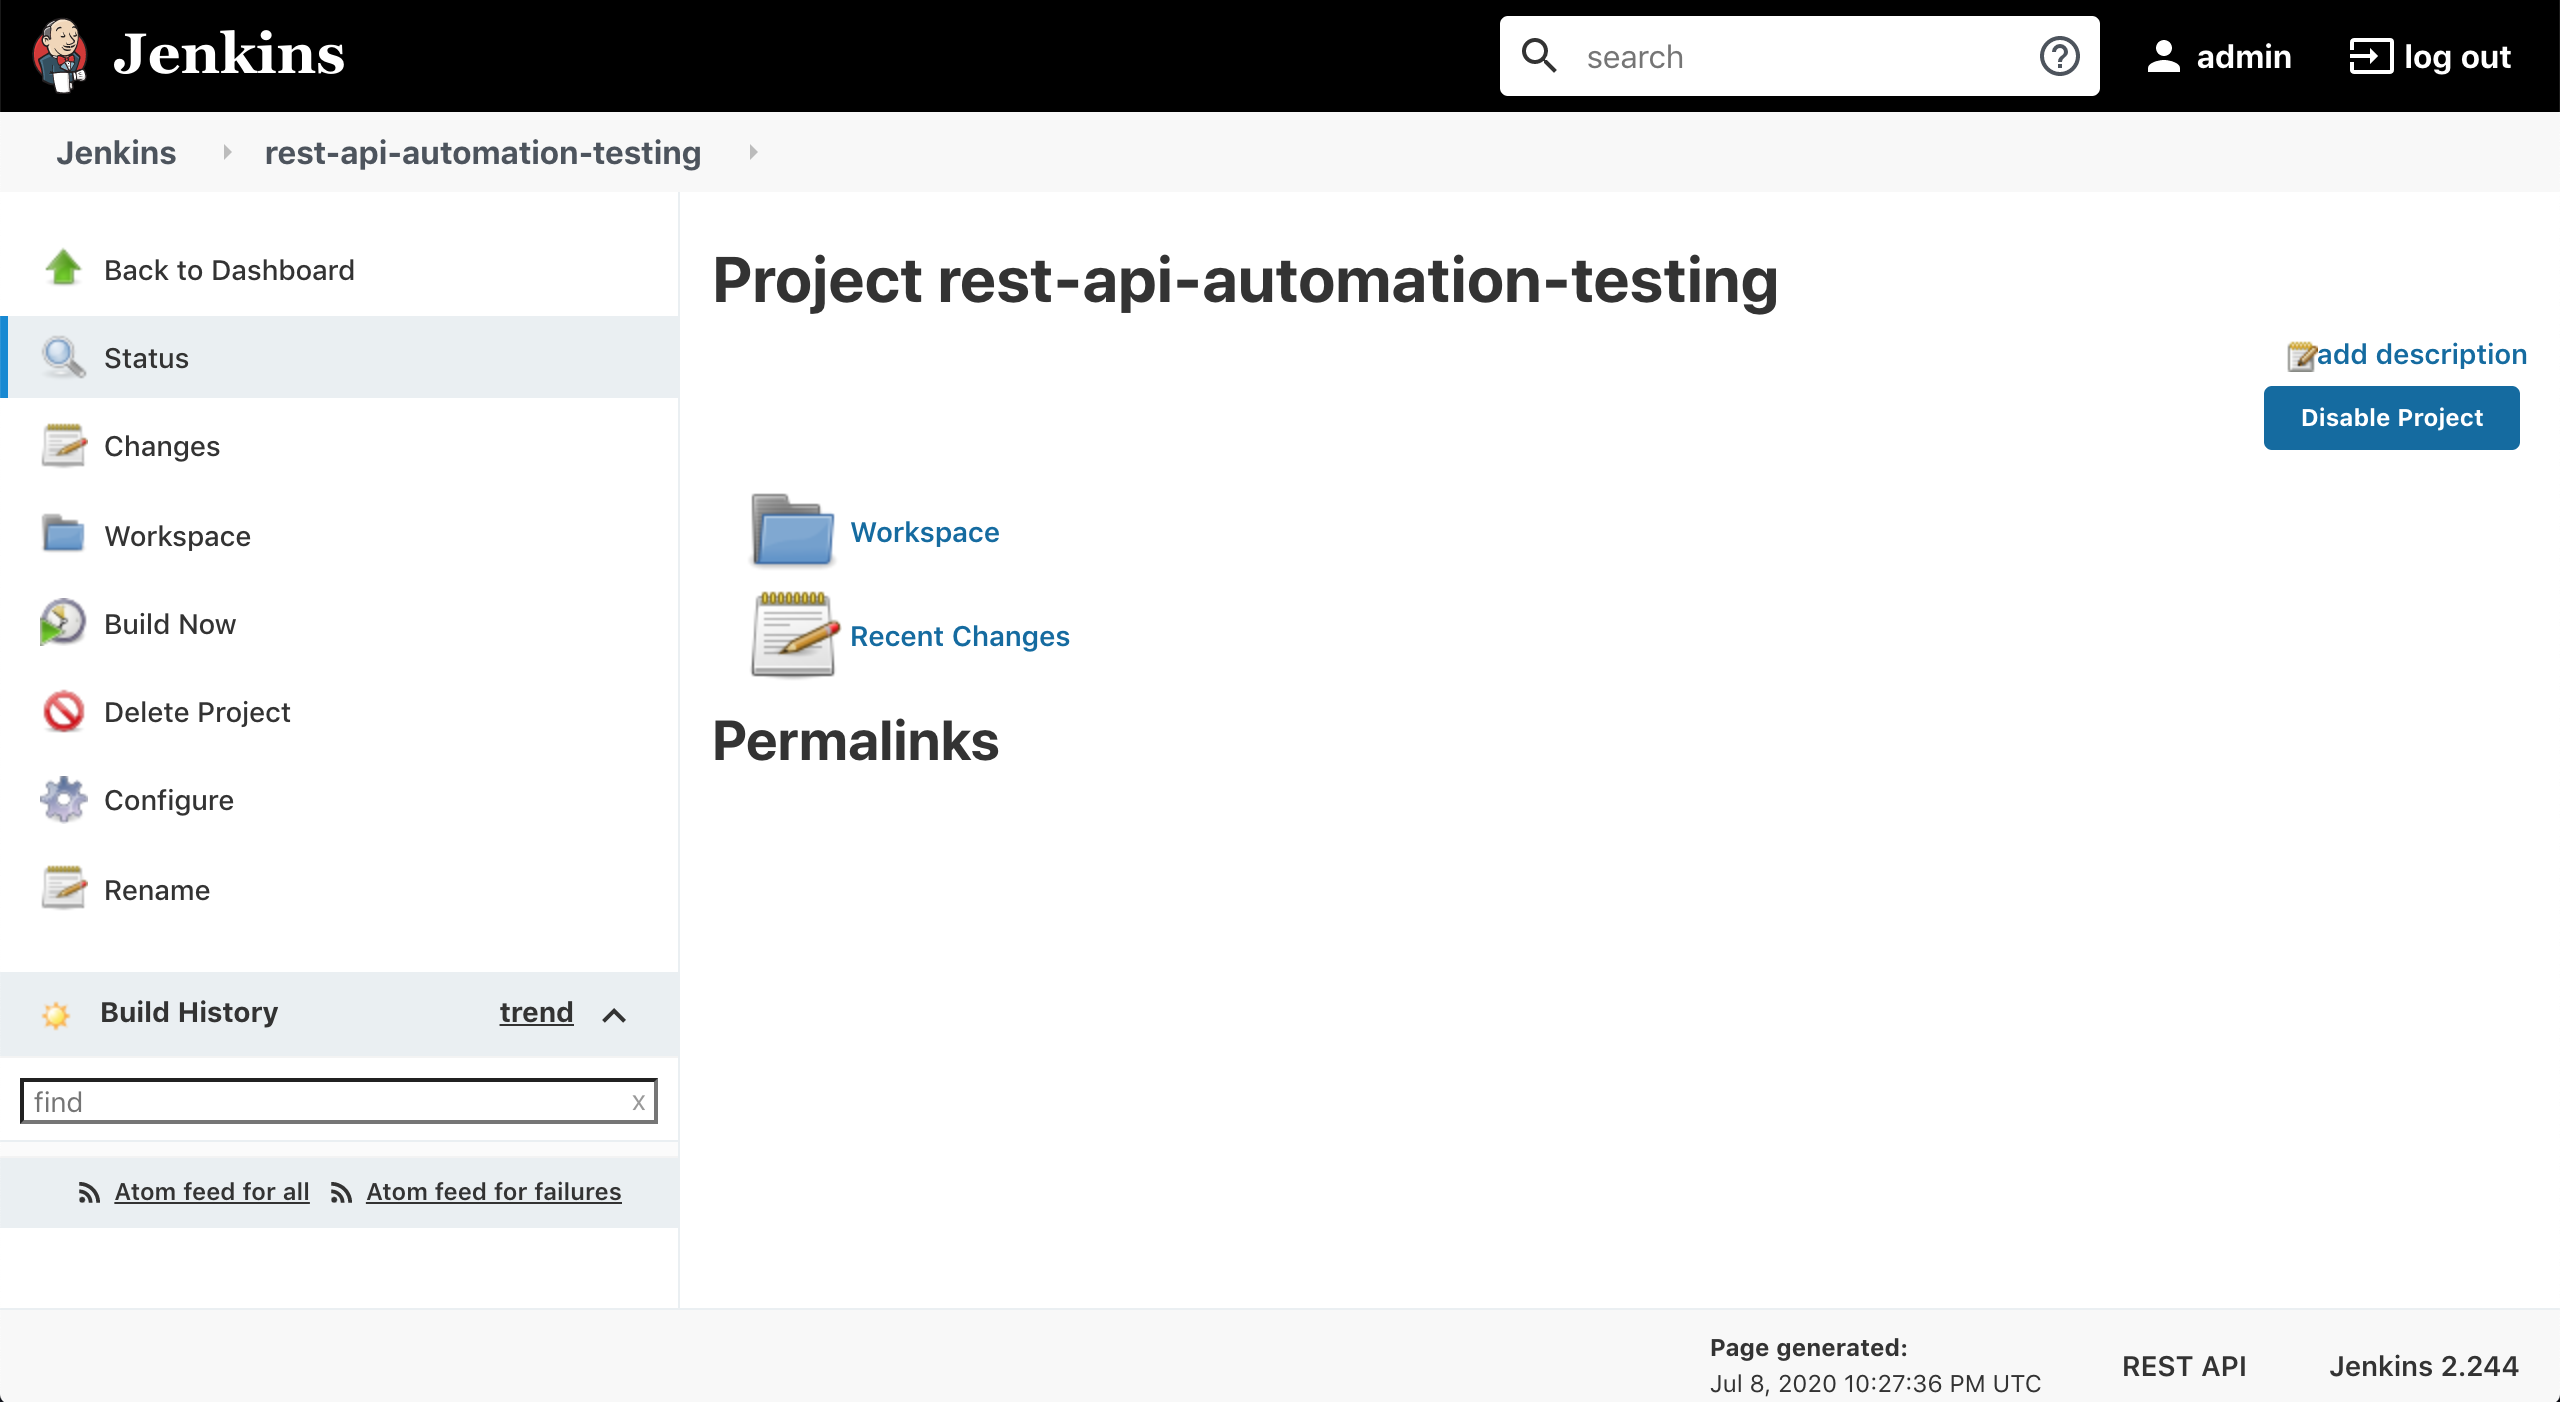
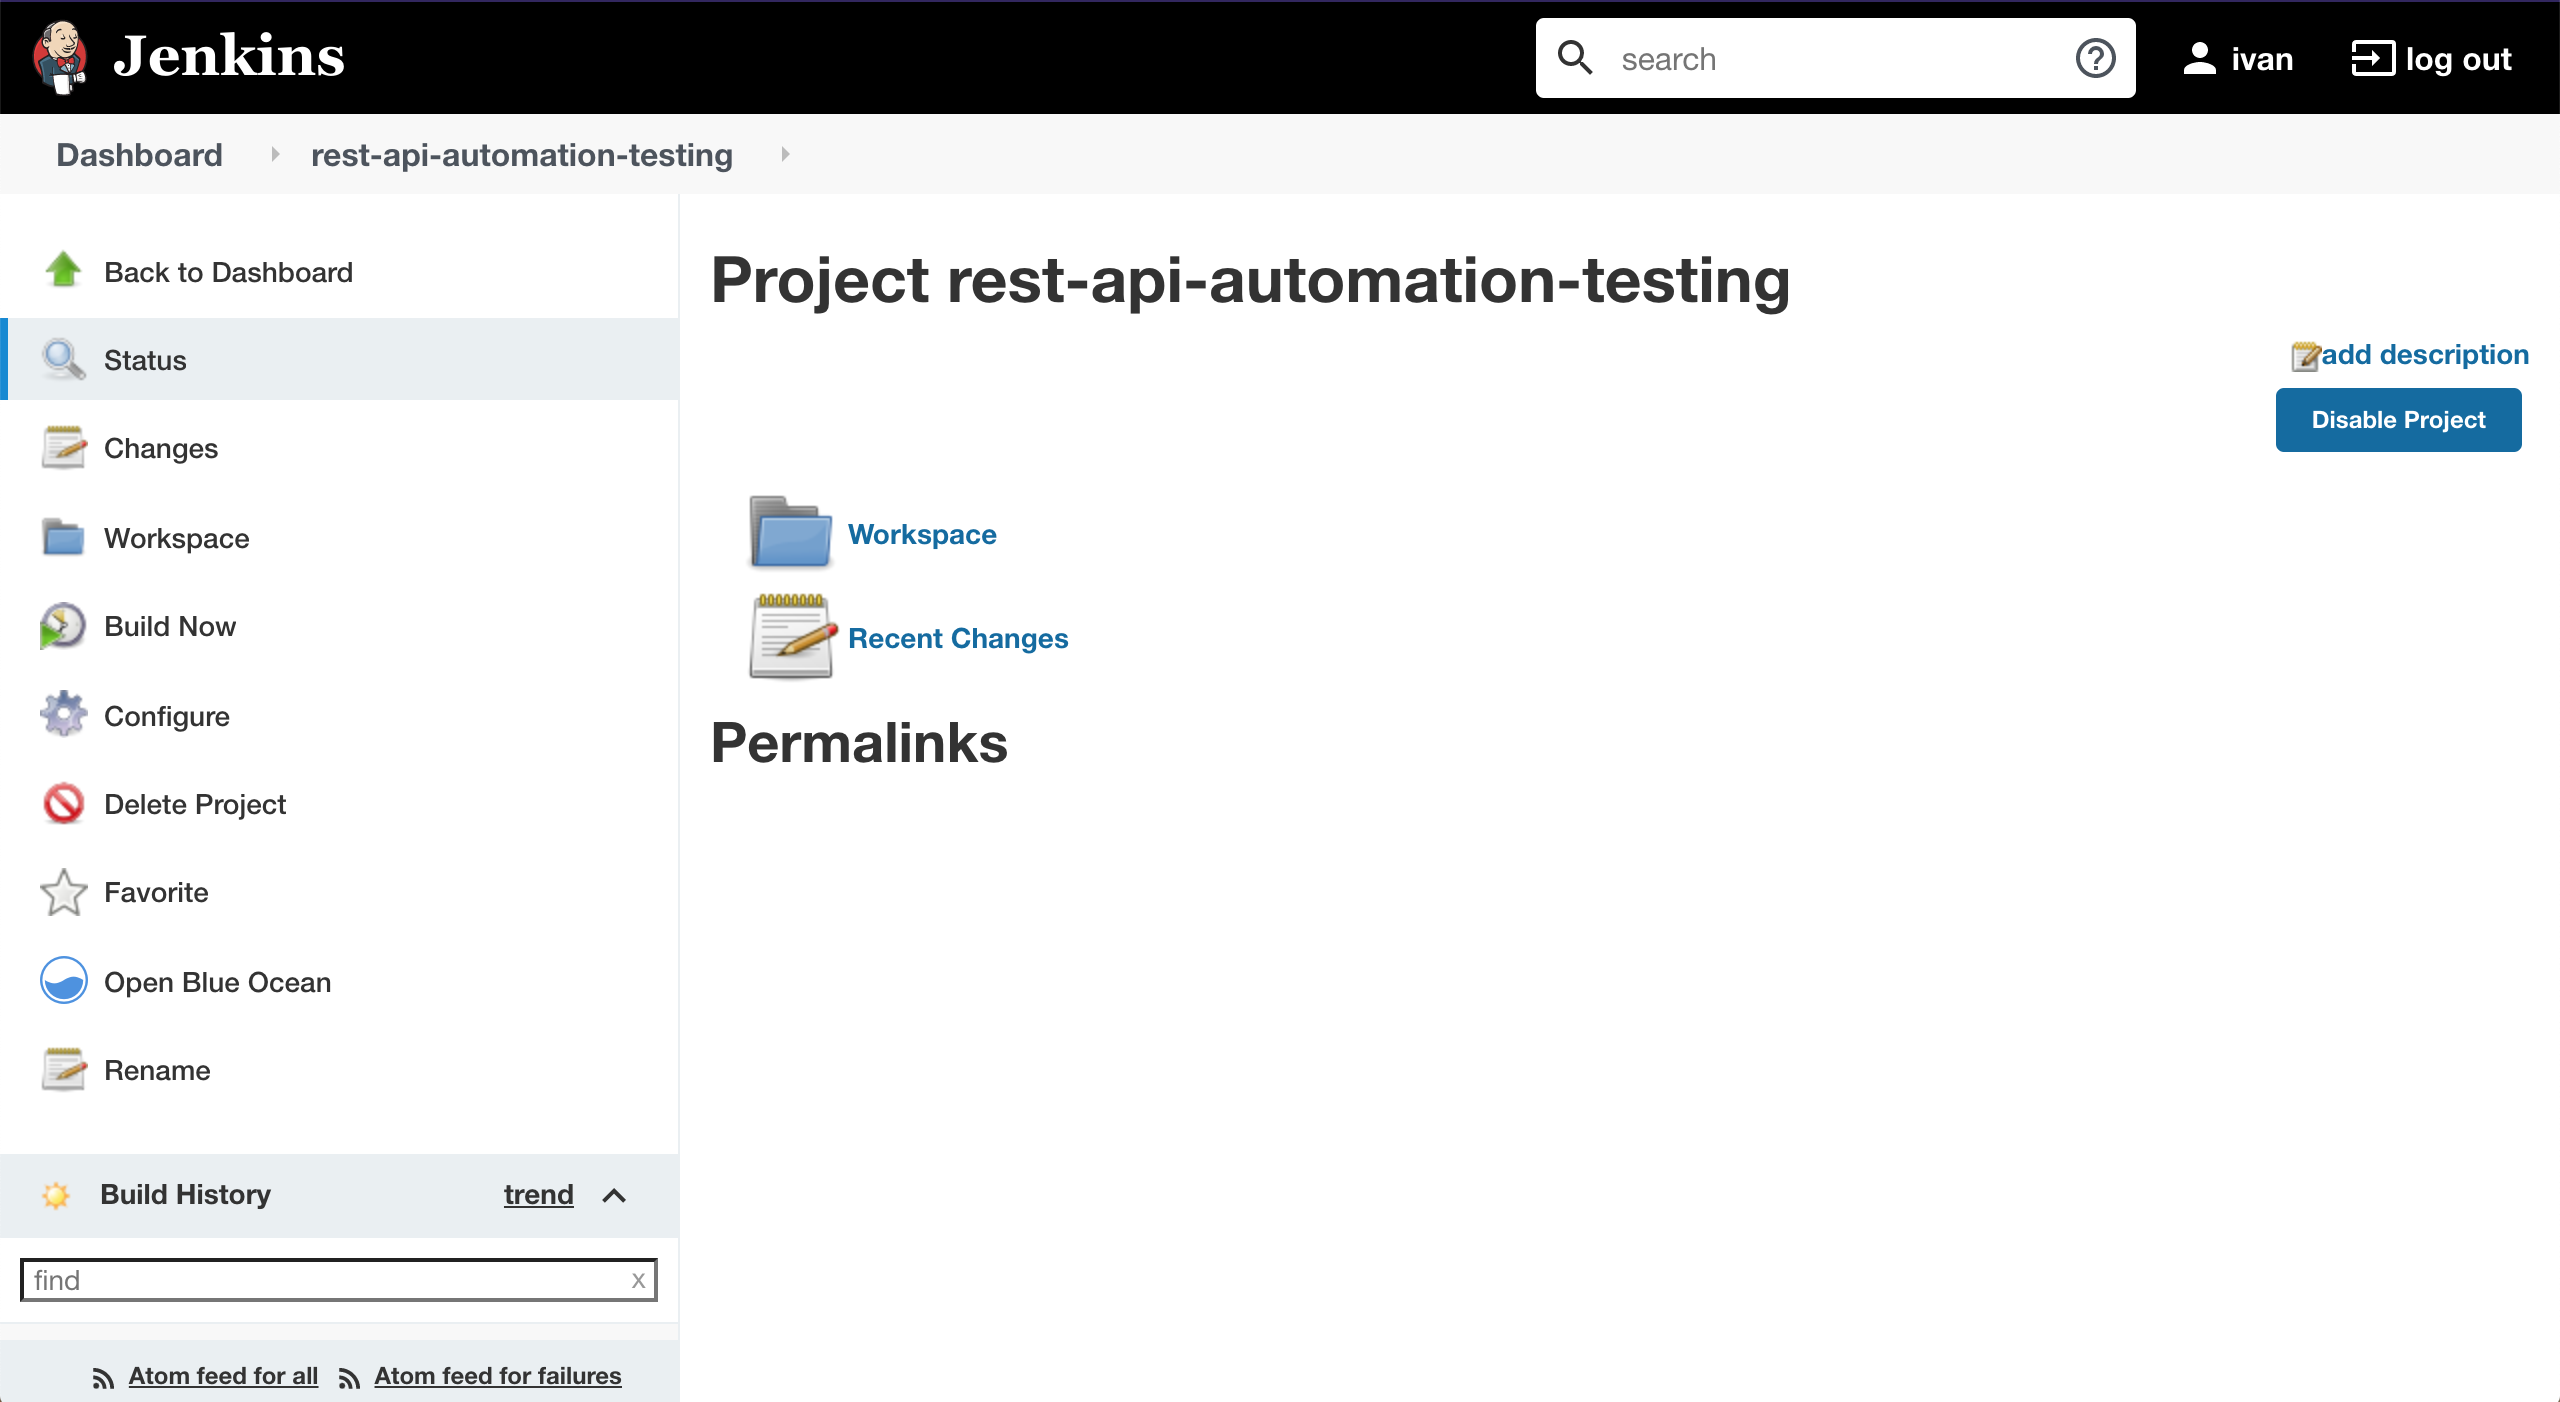
project update - add jenkins-docker that uses docker:dind to docker-compose.yml file; - update jenkins in docker-compose.yml file following the config described at https://www.jenkins.io/doc/book/installing/docker/ - update jenkins/jenkins Docker image to 2.277.4-lts-jdk11; - update postman/newman D

diff --git a/README.md b/README.md
@@ -10,45 +10,36 @@ The goal of this project is to implement an **Automation Testing** for a REST AP
 
 ## Test Postman Collection in Host Machine
 
-- Open a terminal and make sure you are inside `postman-newman-jenkins` root folder
+- Open a terminal window and make sure you are inside `postman-newman-jenkins` root folder
 
 - Execute the following command. I will run `Newman` docker container using the `Postman` collection present in `postman` folder.
   ```
-  docker run -t --rm --name newman \
-    -v $PWD/postman:/etc/newman \
-    postman/newman:5.1.1-alpine run ReqRes.postman_collection.json -g ReqRes.postman_globals.json
+  docker run -t --rm --name newman -v $PWD/postman:/etc/newman \
+    postman/newman:5.2.3-alpine run ReqRes.postman_collection.json -g ReqRes.postman_globals.json
   ```
   
-- In `postman` folder, there are two JSON files that configure some test cases and environment variables to run them. You can edit them by using `Postman`. 
+- In `postman` folder, there are two JSON files that configure some test cases and environment variables used to run them. You can edit them by using `Postman`. 
 
-## Start environment
+## Running Jenkins using Docker-In-Docker
 
-- In a terminal, make sure you are inside `postman-newman-jenkins` root folder
-
-- Export to `DOCKER_PATH` environment variable the docker path in host machine
-  ```
-  export DOCKER_PATH=$(which docker)
-  ```
+- In a terminal window, make sure you are inside `postman-newman-jenkins` root folder
 
 - Run the command below
   ```
   docker-compose up -d
   ```
+  > **Note 1:** A new image called `jenkins-blueocean:2.277.4-lts-jdk11` is build from the `Jenkins` base image `jenkins/jenkins:2.277.4-lts-jdk11`. To rebuild this image you must use `docker-compose build` or `docker-compose up --build`
   
-  - A new image `docker.mycompany.com/postman-newman-jenkins:2.244-slim` is build from the `Jenkins` base image `jenkins/jenkins:2.244-slim`.
-  
-    > _"We need to give the jenkins user sudo privileges in order to be able to run Docker commands inside the container. Alternatively we could have added the jenkins user to the Docker group, which avoids the need to prefix all Docker commands with ‘sudo’, but is non-portable due to the changing gid of the group"_ [1]
-
-  - To rebuild this image you must use `docker-compose build` or `docker-compose up --build`
+  > **Note 2:** If you prefer run `jenkins-docker` and `jenkins` Docker containers using `docker run` command instead, follow the steps described at [jenkins.io website](https://www.jenkins.io/doc/book/installing/docker/)
 
 - Wait a bit so that `jenkins` container is `Up (healthy)`. To check it run
   ```
   docker-compose ps
   ```
 
-## Configure Jenkins
+## Configuring Jenkins
 
-- In a terminal, get the `Jenkins` installation password by running the following command
+- In a terminal window, get the `Jenkins` installation password by running the following command
   ```
   docker logs jenkins
   ```
@@ -71,63 +62,63 @@ The goal of this project is to implement an **Automation Testing** for a REST AP
   *************************************************************
   ```
 
-- Access `Jenkins` at http://localhost:9090
+- Access `Jenkins` at http://localhost:8080
 
-- Inform the installation password and click on `Continue`
+- Inform the installation password and click `Continue`
 
-- Select `Install suggested plugins` (default installation). Wait for it to complete.
+- Select `Install suggested plugins` (default installation) and wait for it to complete
 
-- In the screen `Create First Admin User`, create an account for you informing a username, password, etc. Then, click on `Save and Continue` button
+- In the screen `Create First Admin User`, create an account for you informing a username, password, etc. Then, click `Save and Continue` button
 
-- Keep the `Jenkins URL` as it is, i.e, `http://localhost:9090/`, and click on `Save and Finish` button
+- Keep the `Jenkins URL` as it is, i.e, `http://localhost:8080/`, and click `Save and Finish` button
 
-- **Done**, Jenkins is ready! Click on `Start using Jenkins`
+- `Jenkins` is ready! Click `Start using Jenkins`
 
-## Configure an Automation Project in Jenkins 
+## Configuring Automation Project in Jenkins 
 
-- If you are not in Jenkins website, access it at http://localhost:9090/
+- If you are not in `Jenkins` website, access it at http://localhost:8080
 
-- Provide the username and password that you created while [configuring Jenkins](#Configure Jenkins) 
+- Provide the username and password that you created while [configuring Jenkins](#configuring-jenkins) 
 
-- On the main Jenkins interface, click on `New item` on the menu.
+- On the main `Jenkins` interface, click `New item` on the menu
 
 - Enter a name, for instance, `rest-api-automation-testing`
 
-- Select `Freestyle project` and click on `OK` button. 
+- Select `Freestyle project` and click `OK`
 
-- On the next screen, go to `Build` section. Click on `Add build step` and select `Execute shell`
+- On the next screen, go to `Build` section. Click `Add build step` and select `Execute shell`
 
-- Fill the `Command` field with the command below
+- Set to the `Command` field the command below
   ```
-  sudo docker run --rm postman/newman:5.1.1-alpine \
+  docker run --rm postman/newman:5.2.3-alpine \
   run "https://raw.githubusercontent.com/ivangfr/postman-newman-jenkins/master/postman/ReqRes.postman_collection.json" \
   -g "https://raw.githubusercontent.com/ivangfr/postman-newman-jenkins/master/postman/ReqRes.postman_globals.json" \
   --disable-unicode --color off
   ```
 
-- Click on `Save` button at the bottom of the page
+- Click `Save` at the bottom of the page
 
 - Your Jenkins project is created. You should see something like
 
   ![rest-api-jenkins-project](images/rest-api-jenkins-project.png)
 
-- In order to run the project, click on `Build Now` menu item on the left.
+- In order to run the project, click `Build Now` menu item on the left
   
-  > **Note:** The test cases are a bit strict. They require that the response time must be below 1000 ms. So, depending on how fast `ReqRes` online REST API replies to you request, maybe some test cases will fail and, consequently, the build will fail.
+  > **Note:** The test cases are a bit strict. They require that the response time must be below `1000` ms. So, depending on how fast `ReqRes` online REST API replies to you request, maybe some test cases will fail and, consequently, the build will fail.
 
-- To see the execution results, click on the red or blue balls that appears inside `Build History` (section on the left) everytime you build the Jenkins project. You should get an output like
+- To see the execution results, click the red or blue balls that appears inside `Build History` (section on the left) everytime you build the `Jenkins` project. You should get an output like
   ```
-  Started by user admin
+  Started by user ivan
   Running as SYSTEM
   Building in workspace /var/jenkins_home/workspace/rest-api-automation-testing
-  [rest-api-automation-testing] $ /bin/sh -xe /tmp/jenkins5824478514633252264.sh
-  + sudo docker run --rm postman/newman:5.1.1-alpine run https://raw.githubusercontent.com/ivangfr/postman-newman-jenkins/master/postman/ReqRes.postman_collection.json -g https://raw.githubusercontent.com/ivangfr/postman-newman-jenkins/master/postman/ReqRes.postman_globals.json --disable-unicode --color off
-  newman
+  [rest-api-automation-testing] $ /bin/sh -xe /tmp/jenkins1303008713203054507.sh
+  + docker run --rm postman/newman:5.2.3-alpine run https://raw.githubusercontent.com/ivangfr/postman-newman-jenkins/master/postman/ReqRes.postman_collection.json -g https://raw.githubusercontent.com/ivangfr/postman-newman-jenkins/master/postman/ReqRes.postman_globals.json --disable-unicode --color off
+    newman
   
   ReqRes
   
   Root Get List of Users
-    GET https://reqres.in/api/users [200 OK, 1.91KB, 337ms]
+    GET https://reqres.in/api/users [200 OK, 1.87KB, 319ms]
     Pass  Status code is 200
     Pass  Content-Type is present
     Pass  Response time is less than 1000ms
@@ -135,7 +126,7 @@ The goal of this project is to implement an **Automation Testing** for a REST AP
     Pass  Field values
   
   Root Get Single User
-    GET https://reqres.in/api/users/2 [200 OK, 947B, 46ms]
+    GET https://reqres.in/api/users/2 [200 OK, 1.18KB, 55ms]
     Pass  Status code is 200
     Pass  Content-Type is present
     Pass  Response time is less than 1000ms
@@ -143,27 +134,27 @@ The goal of this project is to implement an **Automation Testing** for a REST AP
     Pass  Field values
   
   Root Get Nonexistent User
-    GET https://reqres.in/api/users/20 [404 Not Found, 545B, 165ms]
+    GET https://reqres.in/api/users/20 [404 Not Found, 896B, 106ms]
     Pass  Status code is 404
     Pass  Content-Type is present
     Pass  Response time is less than 1000ms
   
   Root Post User
-    POST https://reqres.in/api/users [201 Created, 573B, 153ms]
+    POST https://reqres.in/api/users [201 Created, 922B, 115ms]
     Pass  Status code is 201
     Pass  Content-Type is present
     Pass  Response time is less than 1000ms
     Pass  User Schema is valid
   
   Root Put User
-    PUT https://reqres.in/api/users/2 [200 OK, 610B, 154ms]
+    PUT https://reqres.in/api/users/2 [200 OK, 957B, 115ms]
     Pass  Status code is 200
     Pass  Content-Type is present
     Pass  Response time is less than 1000ms
     Pass  User Schema is valid
   
   Root Delete User
-    DELETE https://reqres.in/api/users/2 [204 No Content, 444B, 86ms]
+    DELETE https://reqres.in/api/users/2 [204 No Content, 797B, 142ms]
     Pass  Status code is 204
     Pass  Response time is less than 1000ms
   
@@ -180,24 +171,23 @@ The goal of this project is to implement an **Automation Testing** for a REST AP
   --------------------------+--------------------+--------------------
   |              assertions |                 23 |                 0 |
   --------------------------------------------------------------------
-  | total run duration: 1428ms                                       |
+  | total run duration: 1310ms                                       |
   --------------------------------------------------------------------
-  | total data received: 1.71KB (approx)                             |
+  | total data received: 1.4KB (approx)                              |
   --------------------------------------------------------------------
-  | average response time: 156ms [min: 46ms, max: 337ms, s.d.: 91ms] |
+  | average response time: 142ms [min: 55ms, max: 319ms, s.d.: 83ms] |
   --------------------------------------------------------------------
   Finished: SUCCESS
   ```
 
 ## Shutdown
 
-- In a terminal, make sure you are inside `postman-newman-jenkins` root folder
+- In a terminal window, make sure you are inside `postman-newman-jenkins` root folder
 
-- To stop and remove docker-compose container, network and volumes run
+- To stop and remove docker-compose containers, network and volumes run
   ```
   docker-compose down -v
   ```
+## How to keep this project updated
 
-## References
-
-[1] Running Docker in Jenkins (in Docker): https://container-solutions.com/running-docker-in-jenkins-in-docker
+Check https://www.jenkins.io/doc/book/installing/docker/
